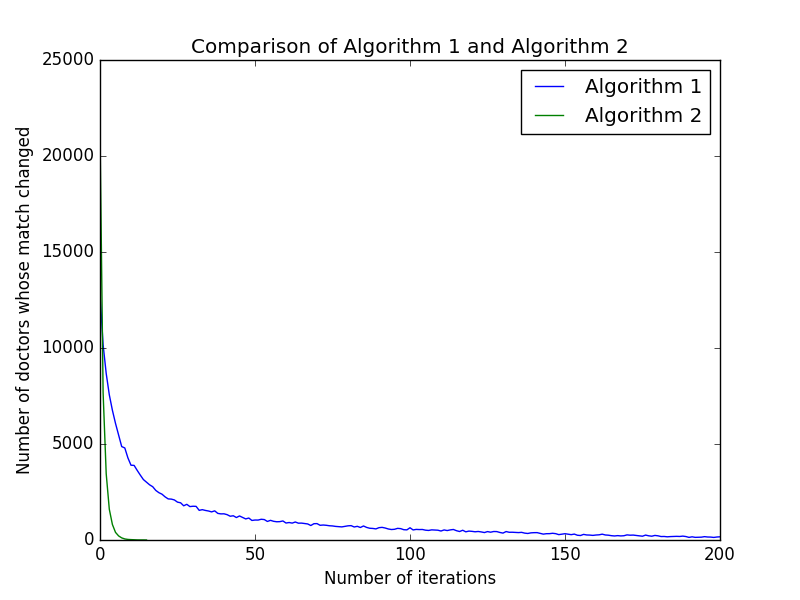
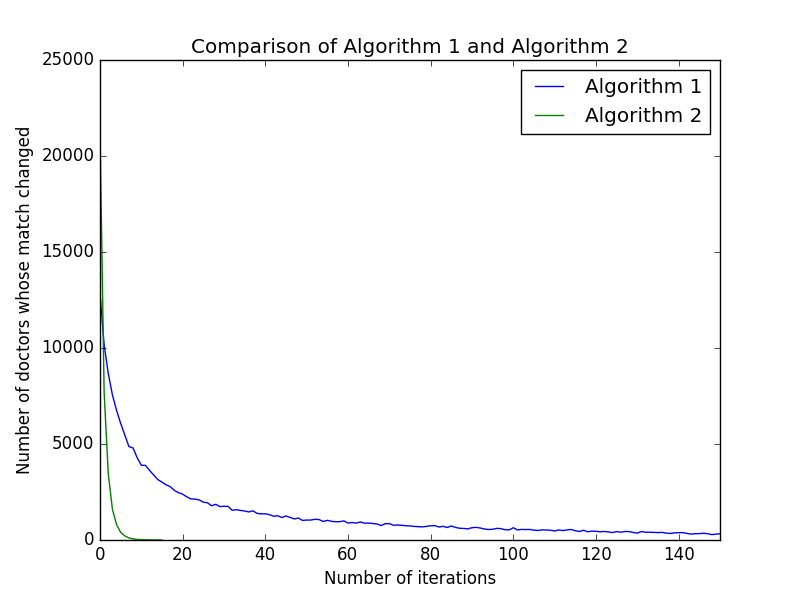
update graphs with all data

Changed region(s): [[0.125, 0.48, 0.9375, 0.93], [0.3125, 0.9, 0.3438, 0.93], [0.2188, 0.9, 0.25, 0.93]]

diff --git a/generate_graphs.py b/generate_graphs.py
@@ -6,8 +6,10 @@ print comp
 
 plt.figure()
 plt.title("Comparison of Parallel and Serial Algorithms")
-plt.plot(comp[:, 0], comp[:, 3], label="Parallel")
-plt.plot(comp[:, 0], comp[:, 4], label="Serial")
+plt.plot(comp[:, 0], comp[:, 3], label="Parallel", c='red')
+plt.plot(comp[:, 0], comp[:, 4], label="Serial", c='blue')
+plt.xlabel("Number of doctors (size of problem)")
+plt.ylabel("Time (sec)")
 plt.legend()
 #plt.show()
 
@@ -27,6 +29,6 @@ plt.plot(range(len(rows[1])), rows[1], label="Algorithm 2")
 plt.xlabel("Number of iterations")
 plt.ylabel("Number of doctors whose match changed")
 plt.legend()
-plt.xlim([0, 200])
+plt.xlim([0, 150])
 plt.show()
 
